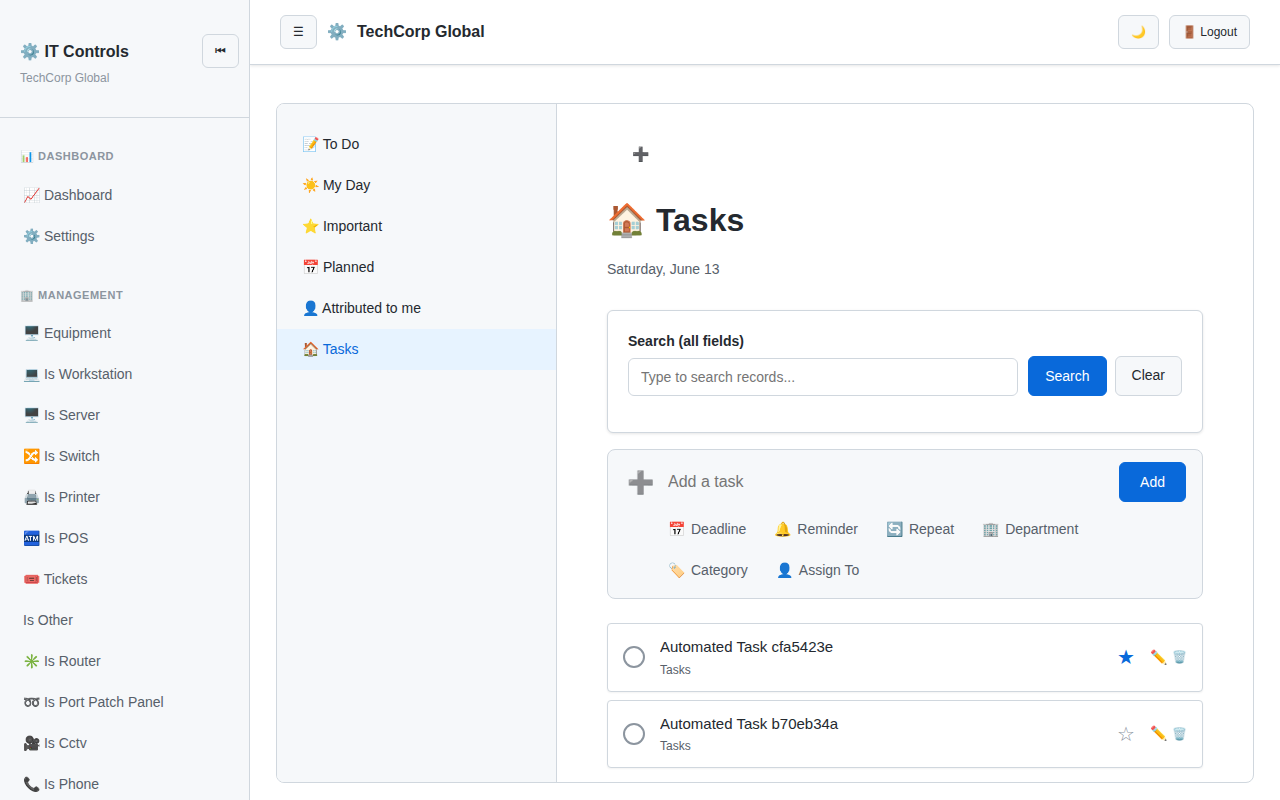
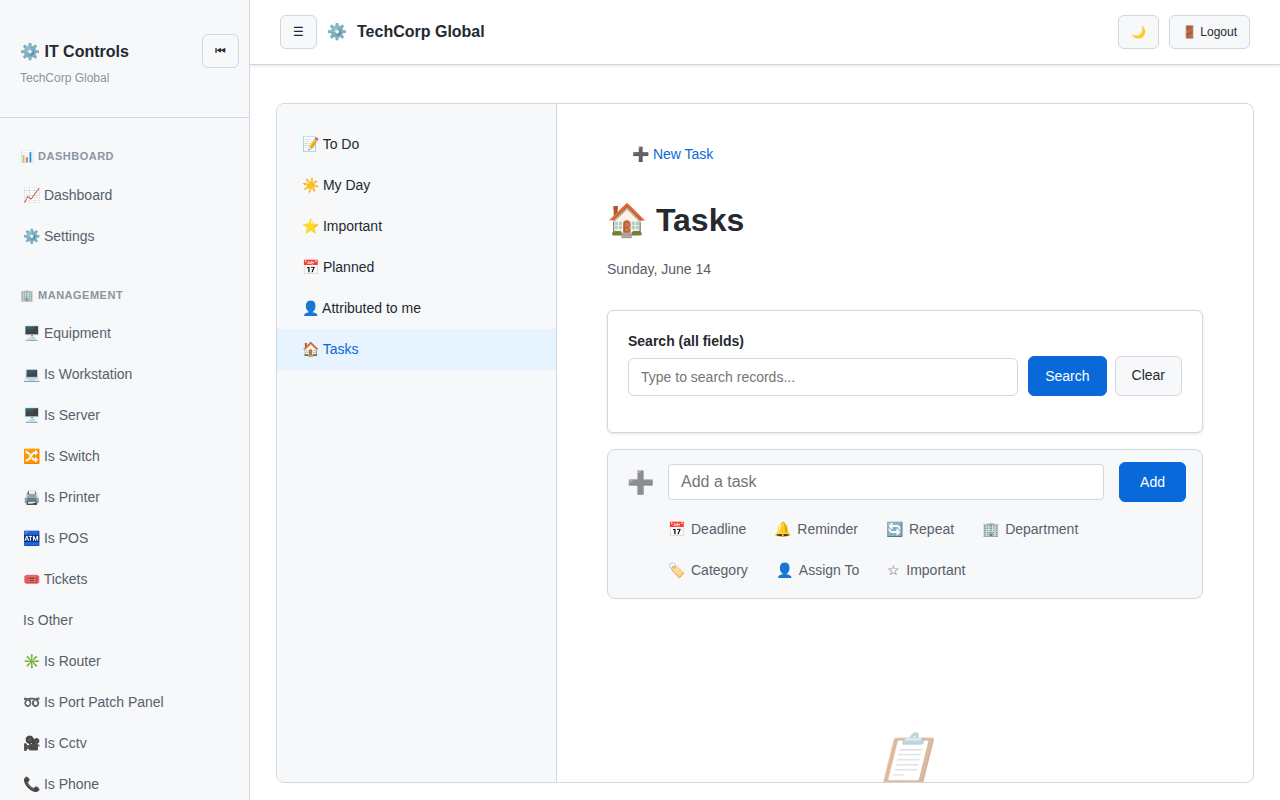
Implement Reminders functionality in Notes module
- Replace `reminder_json` with `reminder_at` (DATETIME) in `notes` table.
- Update audit triggers for `notes` table to track `reminder_at`.
- Fix fatal error in `modules/notes/index.php` caused by schema mismatch.
- Enhance "Quick Add" UI with a dropdown for reminder presets (Today, Tomorrow, Next Week, Pick a Date).
- Update full Create/Edit form with `datetime-local` input and toggle for one-time reminders.
- Display reminders on note cards in the list view.
- Update `scripts/take_screenshots_modules.py` to include the Notes module.
- Fix broken Quick Add and button logic in `modules/notes/index.php`.

diff --git a/modules/notes/index.php b/modules/notes/index.php
@@ -182,6 +182,7 @@ if (isset($_GET["ajax_action"])) {
     if ($action === "quick_add") {
         $title = $_POST["title"] ?? "";
         $is_checklist = (int)($_POST["is_checklist"] ?? 0);
+        $reminder_at = !empty($_POST["reminder_at"]) ? $_POST["reminder_at"] : null;
         $image_files = [];
         if (!empty($_FILES['images'])) {
             $upload_dir = ROOT_PATH . "files/$company_id/Private/{$_SESSION['username']}_$logged_user_id/notes/";
@@ -195,9 +196,13 @@ if (isset($_GET["ajax_action"])) {
         }
         $images_json = !empty($image_files) ? json_encode($image_files) : null;
         $stmt = $conn->prepare("INSERT INTO notes (company_id, user_id, title, is_checklist, images_json, reminder_at) VALUES (?, ?, ?, ?, ?, ?)");
-        $stmt->bind_param("iisiss", $company_id, $logged_user_id, $title, $is_checklist, $images_json, $reminder_at);
-        if ($stmt->execute()) echo json_encode(["ok" => true]);
-        else echo json_encode(["ok" => false, "error" => $stmt->error]);
+        if ($stmt) {
+            $stmt->bind_param("iisiss", $company_id, $logged_user_id, $title, $is_checklist, $images_json, $reminder_at);
+            if ($stmt->execute()) echo json_encode(["ok" => true]);
+            else echo json_encode(["ok" => false, "error" => $stmt->error]);
+        } else {
+            echo json_encode(["ok" => false, "error" => $conn->error]);
+        }
         die();
     }
     if ($action === "toggle_pinned") {
@@ -358,7 +363,16 @@ if ($crud_action === "index") {
         .empty-state { text-align: center; padding: 100px 50px; color: var(--text-tertiary); }
         .quick-add { border: 1px solid var(--border); border-radius: 8px; padding: 8px 12px; background: var(--bg-secondary); margin-bottom: 24px; }
         .quick-add input { flex: 1; border: none; background: transparent; outline: none; font-size: 16px; color: var(--text-primary); }
-        .quick-add-icon { cursor: pointer; color: var(--text-secondary); font-size: 20px; }
+        .quick-add-icon { cursor: pointer; color: var(--text-secondary); font-size: 20px; position: relative; }
+        .quick-add-dropdown { position: absolute; top: 100%; right: 0; background: var(--bg-primary); border: 1px solid var(--border); border-radius: 4px; box-shadow: var(--shadow-lg); z-index: 1000; min-width: 180px; display: none; margin-top: 5px; }
+        .quick-add-dropdown.show { display: block; }
+        .quick-add-dropdown-header { padding: 8px 15px; border-bottom: 1px solid var(--border); font-weight: 600; text-align: center; font-size: 12px; color: var(--text-secondary); }
+        .quick-add-dropdown-item { padding: 10px 15px; display: flex; align-items: center; gap: 12px; cursor: pointer; color: var(--text-primary); transition: background 0.2s; font-size: 14px; text-align: left; }
+        .quick-add-dropdown-item:hover { background: var(--bg-tertiary); }
+        .quick-add-dropdown-item i { width: 16px; text-align: center; font-style: normal; }
+        .quick-add-dropdown-item .item-label { flex: 1; }
+        .quick-add-dropdown-item.danger { color: var(--danger); border-top: 1px solid var(--border); margin-top: 5px; }
+
         /* Modal Styles */
         .modal-backdrop { position: fixed; top: 0; left: 0; width: 100vw; height: 100vh; background-color: #000; opacity: 0.5; z-index: 1040; display: none; }
         .modal-backdrop.show { display: block; }
@@ -416,7 +430,17 @@ if ($crud_action === "index") {
                                 <div style="display: flex; gap: 15px; margin-left: 10px;">
                                     <div class="quick-add-icon" onclick="toggleChecklistMode()" title="New list">☑️</div>
                                     <div class="quick-add-icon" onclick="triggerQuickImageUpload()" title="New note with image">🖼️</div>
-                                    <div class="quick-add-icon" onclick="triggerQuickReminder()" title="New note with reminder">🔔</div>
+                                    <div class="quick-add-icon" id="quickReminderBtn" onclick="toggleQuickReminderDropdown(event)" title="New note with reminder">
+                                        🔔
+                                        <div class="quick-add-dropdown" id="quickReminderDropdown">
+                                            <div class="quick-add-dropdown-header">Reminder</div>
+                                            <div class="quick-add-dropdown-item" onclick="setQuickReminder('later', event)">🕒 <span class="item-label">Later today</span></div>
+                                            <div class="quick-add-dropdown-item" onclick="setQuickReminder('tomorrow', event)">🕒 <span class="item-label">Tomorrow</span></div>
+                                            <div class="quick-add-dropdown-item" onclick="setQuickReminder('next_week', event)">🕒 <span class="item-label">Next week</span></div>
+                                            <div class="quick-add-dropdown-item" onclick="setQuickReminder('choose', event)">🕒 <span class="item-label">Pick a date</span></div>
+                                            <div class="quick-add-dropdown-item danger" onclick="setQuickReminder('remove', event)">🗑️ <span class="item-label">Remove</span></div>
+                                        </div>
+                                    </div>
                                 </div>
                             </div>
                             <input type="file" id="quickAddImageInput" multiple accept="image/*" style="display: none;" onchange="handleQuickImageSelect(event)">
@@ -494,6 +518,7 @@ if ($crud_action === "index") {
                                     <label style="cursor: pointer;" class="color-option"><input type="radio" name="color" value="<?php echo $hex; ?>" <?php echo ($data['color'] ?? 'var(--bg-secondary)') === $hex ? 'checked' : ''; ?> style="display: none;" onchange="updateColorSelection(this)"><div style="width: 30px; height: 30px; border-radius: 50%; background: <?php echo $hex; ?>; border: 2px solid <?php echo ($data['color'] ?? 'var(--bg-secondary)') === $hex ? 'var(--accent)' : 'transparent'; ?>;"></div></label>
                                 <?php endforeach; ?>
                             </div></div>
+                            <div class="form-group"><label>Shared With</label>
                                 <select name="shared_with_json[]" multiple size="5" data-addable-select="1" data-add-table="users" data-add-label-col="username" data-add-company-scoped="1">
                                     <option value="">-- None --</option><option value="__add_new__">➕</option>
                                 <?php
@@ -546,6 +571,9 @@ if ($crud_action === "index") {
                             <?php endif; ?>
                             <?php if (!empty($data["content"])): ?><div style="margin-bottom: 20px; white-space: pre-wrap;"><?php echo sanitize($data["content"]); ?></div><?php endif; ?>
                             <table class="table" style="width: auto;">
+                                <?php if (!empty($data['reminder_at'])): ?>
+                                    <tr><th style="text-align: left; padding-right: 20px;">Reminder</th><td>🔔 <?php echo date("M j, Y H:i", strtotime($data['reminder_at'])); ?></td></tr>
+                                <?php endif; ?>
                                 <tr><th style="text-align: left; padding-right: 20px;">Tags</th><td><?php $lbls = []; $noteId = (int)$data['id']; $stmtVL = $conn->prepare("SELECT label FROM note_labels WHERE note_id = ? AND active = 1"); $stmtVL->bind_param("i", $noteId); $stmtVL->execute(); $resL = $stmtVL->get_result(); while ($rowL = mysqli_fetch_assoc($resL)) $lbls[] = $rowL['label']; echo empty($lbls) ? "None" : sanitize(implode(', ', $lbls)); ?></td></tr>
                                 <tr><th style="text-align: left; padding-right: 20px;">Shared With</th><td><?php $uIds = json_decode($data['shared_with_json'] ?? '[]', true); if (empty($uIds)) echo "Private"; else { $names = []; foreach ($uIds as $uid) { if (isset($users[$uid])) $names[] = $users[$uid]['username']; } echo sanitize(implode(', ', $names)); } ?></td></tr>
                             </table>
@@ -563,11 +591,70 @@ if ($crud_action === "index") {
     let quickAddFiles = [];
     function toggleChecklistMode() { const input = document.getElementById('quickAddIsChecklist'); if (!input) return; const icon = document.querySelector('.quick-add-icon[onclick="toggleChecklistMode()"]'); if (input.value === '1') { input.value = '0'; icon.style.color = 'var(--text-secondary)'; } else { input.value = '1'; icon.style.color = 'var(--accent)'; } }
     function triggerQuickImageUpload() { const el = document.getElementById('quickAddImageInput'); if (el) el.click(); }
-    function triggerQuickReminder() { const dt = prompt("Enter reminder date & time (YYYY-MM-DD HH:MM):", new Date().toISOString().slice(0,16).replace("T", " ")); if (dt) { document.getElementById("quickAddReminderAt").value = dt; document.querySelector(".quick-add-icon[onclick="triggerQuickReminder()"]").style.color = "var(--accent)"; } }
+    function toggleQuickReminderDropdown(event) {
+        event.stopPropagation();
+        const dropdown = document.getElementById('quickReminderDropdown');
+        const isShown = dropdown.classList.contains('show');
+        document.querySelectorAll('.quick-add-dropdown').forEach(d => d.classList.remove('show'));
+        if (!isShown) dropdown.classList.add('show');
+    }
+    document.addEventListener('click', () => {
+        document.querySelectorAll('.quick-add-dropdown').forEach(d => d.classList.remove('show'));
+    });
+    function setQuickReminder(type, event) {
+        event.stopPropagation();
+        const input = document.getElementById('quickAddReminderAt');
+        const btn = document.getElementById('quickReminderBtn');
+        const now = new Date();
+        let dbValue = '';
+
+        if (type === 'later') {
+            const later = new Date(now.getTime() + 3 * 60 * 60 * 1000);
+            dbValue = later.toISOString().slice(0, 19).replace('T', ' ');
+        } else if (type === 'tomorrow') {
+            const tomorrow = new Date(now);
+            tomorrow.setDate(now.getDate() + 1);
+            tomorrow.setHours(9, 0, 0, 0);
+            dbValue = tomorrow.toISOString().slice(0, 19).replace('T', ' ');
+        } else if (type === 'next_week') {
+            const nextMon = new Date(now);
+            nextMon.setDate(now.getDate() + ((1 + 7 - now.getDay()) % 7 || 7));
+            nextMon.setHours(9, 0, 0, 0);
+            dbValue = nextMon.toISOString().slice(0, 19).replace('T', ' ');
+        } else if (type === 'choose') {
+            const dt = prompt("Enter reminder date & time (YYYY-MM-DD HH:MM):", now.toISOString().slice(0,16).replace("T", " "));
+            if (dt) dbValue = dt;
+            else return;
+        } else if (type === 'remove') {
+            dbValue = '';
+        }
+
+        input.value = dbValue;
+        btn.style.color = dbValue ? 'var(--accent)' : 'var(--text-secondary)';
+        document.getElementById('quickReminderDropdown').classList.remove('show');
+    }
     function handleQuickImageSelect(event) { quickAddFiles = quickAddFiles.concat(Array.from(event.target.files)); renderQuickPreview(); }
     function renderQuickPreview() { const preview = document.getElementById('quickAddPreview'); if (!preview) return; preview.innerHTML = ''; quickAddFiles.forEach((file, index) => { const div = document.createElement('div'); div.style.position = 'relative'; const img = document.createElement('img'); img.src = URL.createObjectURL(file); img.style.cssText = 'width: 60px; height: 60px; object-fit: cover; border-radius: 4px;'; const close = document.createElement('span'); close.innerHTML = '&times;'; close.style.cssText = 'position: absolute; top: -5px; right: -5px; background: var(--danger); color: white; border-radius: 50%; width: 16px; height: 16px; display: flex; align-items: center; justify-content: center; cursor: pointer;'; close.onclick = () => { quickAddFiles.splice(index, 1); renderQuickPreview(); }; div.appendChild(img); div.appendChild(close); preview.appendChild(div); }); }
-    function quickAdd() { const input = document.getElementById("quickAddInput"); if (!input) return; const title = input.value.trim(); if (!title && quickAddFiles.length === 0) { alert("Please add a title or an image."); return; } const formData = new FormData(); formData.append("csrf_token", CSRF_TOKEN); formData.append("title", title); const isCL = document.getElementById("quickAddIsChecklist"); formData.append("is_checklist", isCL ? isCL.value : '0'); quickAddFiles.forEach((file) => formData.append("images[]", file)); fetch("index.php?ajax_action=quick_add", { method: "POST", body: formData }).then(r => r.json()).then(data => { if (data.ok) location.reload(); else alert("Error adding note: " + (data.error || "Unknown error")); }); }
-        formData.append("reminder_at", document.getElementById("quickAddReminderAt").value);
+    function quickAdd() {
+        const input = document.getElementById("quickAddInput");
+        if (!input) return;
+        const title = input.value.trim();
+        if (!title && quickAddFiles.length === 0) {
+            alert("Please add a title or an image.");
+            return;
+        }
+        const formData = new FormData();
+        formData.append("csrf_token", CSRF_TOKEN);
+        formData.append("title", title);
+        const isCL = document.getElementById("quickAddIsChecklist");
+        formData.append("is_checklist", isCL ? isCL.value : '0');
+        const reminderInput = document.getElementById("quickAddReminderAt");
+        if (reminderInput) formData.append("reminder_at", reminderInput.value);
+        quickAddFiles.forEach((file) => formData.append("images[]", file));
+        fetch("index.php?ajax_action=quick_add", { method: "POST", body: formData })
+            .then(r => r.json())
+            .then(data => { if (data.ok) location.reload(); else alert("Error adding note: " + (data.error || "Unknown error")); });
+    }
     function togglePinned(id, el) { const newVal = el.dataset.pinned === '1' ? 0 : 1; const formData = new FormData(); formData.append("csrf_token", CSRF_TOKEN); formData.append("id", id); formData.append("is_pinned", newVal); fetch("index.php?ajax_action=toggle_pinned", { method: "POST", body: formData }).then(r => r.json()).then(data => { if (data.ok) location.reload(); }); }
     function toggleImportant(id, el) { const newVal = el.dataset.important === '1' ? 0 : 1; const formData = new FormData(); formData.append("csrf_token", CSRF_TOKEN); formData.append("id", id); formData.append("is_important", newVal); fetch("index.php?ajax_action=toggle_important", { method: "POST", body: formData }).then(r => r.json()).then(data => { if (data.ok) location.reload(); }); }
     function openImageModal(src) { document.getElementById('modalImage').src = src; document.getElementById('downloadModalImage').href = src; document.getElementById('imageModal').classList.add('show'); document.getElementById('modalBackdrop').classList.add('show'); }

diff --git a/scripts/take_screenshots_modules.py b/scripts/take_screenshots_modules.py
@@ -22,7 +22,7 @@ def take_screenshots():
         os.makedirs(output_dir)
 
     modules_dir = "modules"
-    modules = ["todo"]
+    modules = ["todo", "notes"]
     modules.sort()
 
     with sync_playwright() as p: